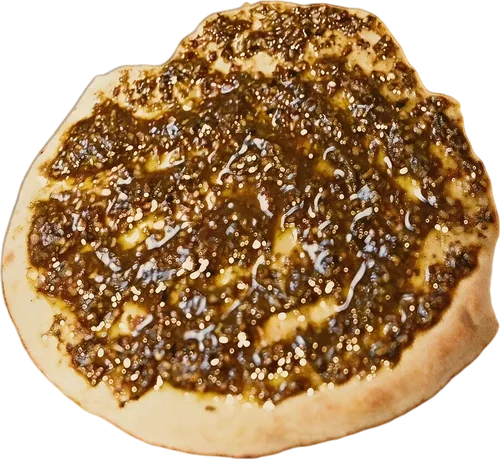
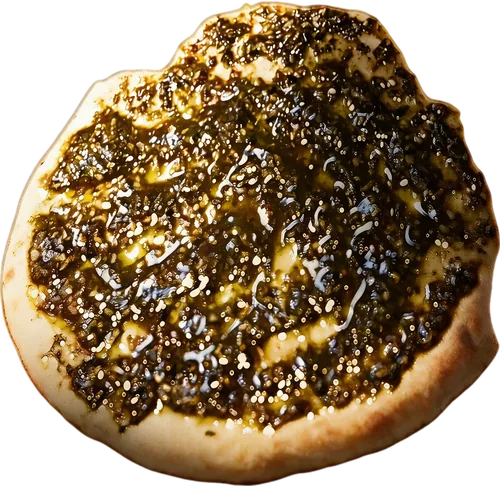
fix: schoenere Hintergrundprodukte + Handy-Bedienung
DIE DAMPFENDEN PRODUKTE
Karol: „die solltest du mit neuen higgsfield produkten ersetzen durch
schoenere halt. dampfen sollen sie trotzdem und die logik bzw die
produkte an sich sollen nicht geaendert werden nur das aussehen."

Betroffen sind die fuenf, die dampfen (tiefe < 0,62): fatayer, lahmacun,
zaatar, zaatar-2, stapel. Alle fuenf neu durch seedream_v5_pro mit
is_inpaint — das bearbeitet die Vorlage, statt etwas Neues zu erfinden.
Der Auftrag lautete diesmal auf SCHOENHEIT (warmes streifendes Licht,
Glanz von Oel, „die Aufnahme, die ein guter Foodfotograf macht, nicht
der Schnappschuss") mit „Das OBJEKT darf sich nicht aendern" als Riegel.

Gemessen, Vorher → Nachher:

              Schaerfe        Saettigung   Farbabstand  Umriss-IoU
  fatayer     1858 →  939     68 → 73 %       39,5        99,5 %
  lahmacun    4551 → 3192     67 → 74 %       47,9        99,7 %
  zaatar      3893 → 5399     65 → 69 %       43,3        99,5 %
  zaatar-2    4285 → 5367     64 → 74 %       34,6        99,7 %
  stapel      2269 → 2193     53 → 72 %       89,8        96,2 %

Vier eingebaut, `stapel` VERWORFEN. Bei 89,8 Farbabstand und 96,2 %
Umriss war der Stapel sichtbar anders aufgebaut — und genau das war
ausgeschlossen. Der alte bleibt drin.

Der Dampf haengt unveraendert an `g.dampft` und `g.tiefe`; an der Logik
ist nichts angefasst. In gebaecke.ts stehen nur neue Masse (900 px
lange Kante), damit die reservierte Hoehe wieder stimmt.

DIE HANDY-BEDIENUNG
[…]

diff --git a/src/stile/grundlage.css b/src/stile/grundlage.css
@@ -549,6 +549,48 @@ section {
   vertical-align: 0.08em;
 }
 
+/**
+ * ═══ Antippflaechen auf dem Handy ═══
+ *
+ * Karol am 08.09.: „Handy-Formatierung ist wichtig."
+ *
+ * Auf vier iPhone-Groessen (SE, 13 mini, 15, 15 Pro Max) nachgemessen: die
+ * Seite schiebt nirgends seitlich, aber elf Bedienelemente lagen unter der
+ * 44-Pixel-Grenze, die Apple fuer eine Fingerkuppe ansetzt:
+ *
+ *     kopf__marke      68 x 30
+ *     galerie__pfeil   42 x 42   (zweimal, zwei Pixel zu knapp)
+ *     Telefon, Festnetz, E-Mail im Laden      je 26 hoch
+ *     WhatsApp, Telefon, E-Mail, Impressum,
+ *     Datenschutz im Fuss                     je 27 hoch
+ *
+ * Sie sind alle gross genug ZU LESEN — nur nicht gross genug zu TREFFEN. Auf
+ * dem Schirm faellt das nicht auf, weil ein Mauszeiger einen Punkt trifft und
+ * ein Daumen eine Flaeche.
+ *
+ * `pointer: coarse` und nicht eine Fensterbreite: entscheidend ist das
+ * Eingabegeraet, nicht die Groesse des Bildschirms. Ein Tablet mit 1024 px
+ * wird mit dem Finger bedient, ein schmales Fenster am Rechner nicht.
+ *
+ * Die Flaeche waechst nach oben und unten um den Text herum; sichtbar aendert
+ * sich nur der Zeilenabstand in den beiden Kontaktbloecken, und der darf auf
+ * einem Handy ohnehin groesser sein.
+ */
+@media (pointer: coarse) {
+  .kopf__marke,
+  .laden__wort .datenzeile a,
+  .fuss__navi a {
+    display: inline-flex;
+    align-items: center;
+    min-height: 44px;
+  }
+
+  .galerie__pfeil {
+    min-width: 44px;
+    min-height: 44px;
+  }
+}
+
 /* ── Bewegung ─────────────────────────────────────────────────────────────── */
 
 /* Jede Bewegung hat einen stehenden Ersatz — nicht abgeschaltet, ERSETZT.

diff --git a/src/gebaecke.ts b/src/gebaecke.ts
@@ -301,7 +301,7 @@ export const GEBAECKE: Gebaeck[] = [
     liM: 58,
     grM: 52,
     breite: 900,
-    hoehe: 709,
+    hoehe: 803,
     /* Das echte fliegt am weitesten und am grössten — es ist das einzige, das
        zeigt, was der Gast bekommt. */
     y: [0.5, -0.34],
@@ -349,7 +349,7 @@ export const GEBAECKE: Gebaeck[] = [
     liM: 54,
     grM: 48,
     breite: 900,
-    hoehe: 796,
+    hoehe: 857,
     y: [0.62, -0.28],
     x: [-0.05, 0.1],
     dreh: [-45, 22],
@@ -372,7 +372,7 @@ export const GEBAECKE: Gebaeck[] = [
     liM: 76,
     grM: 38,
     breite: 900,
-    hoehe: 826,
+    hoehe: 875,
     y: [0.28, -0.4],
     x: [0.06, -0.04],
     dreh: [36, -25],
@@ -395,7 +395,7 @@ export const GEBAECKE: Gebaeck[] = [
     liM: 74,
     grM: 36,
     breite: 900,
-    hoehe: 850,
+    hoehe: 872,
     y: [0.44, -0.22],
     x: [-0.03, 0.07],
     dreh: [-22, 45],
@@ -520,7 +520,7 @@ export const GEBAECKE: Gebaeck[] = [
     liM: 40,
     grM: 30,
     breite: 900,
-    hoehe: 796,
+    hoehe: 857,
     y: [0.44, -0.29],
     x: [0.04, -0.05],
     dreh: [18, -14],
@@ -544,7 +544,7 @@ export const GEBAECKE: Gebaeck[] = [
     liM: 20,
     grM: 32,
     breite: 900,
-    hoehe: 826,
+    hoehe: 875,
     y: [0.44, -0.29],
     x: [-0.04, 0.05],
     dreh: [-18, 14],
@@ -568,7 +568,7 @@ export const GEBAECKE: Gebaeck[] = [
     liM: 68,
     grM: 28,
     breite: 900,
-    hoehe: 709,
+    hoehe: 803,
     y: [0.44, -0.29],
     x: [0.04, -0.05],
     dreh: [18, -14],

diff --git a/src/stile/bausteine.css b/src/stile/bausteine.css
@@ -413,6 +413,22 @@
   text-transform: uppercase;
 }
 .etikett--still::before { display: none; }
+
+/**
+ * ═══ Auf dem Handy einen halben Punkt groesser ═══
+ *
+ * Gemessen: 0,72 rem sind 11,52 px, und das ist auf einem Telefon die Grenze
+ * zum Kneifen. 0,75 rem sind glatte 12.
+ *
+ * Die Regel steht HIER und nicht in grundlage.css. Dort stand sie zuerst und
+ * hat nicht gegriffen: grundlage.css wird vor bausteine.css geladen, und bei
+ * gleicher Spezifitaet gewinnt die spaetere Datei. Eine Medienabfrage aendert
+ * an der Spezifitaet nichts. Dieselbe Falle wie beim doppelten
+ * `.schritt`-Regelsatz und bei der Schrittziffer.
+ */
+@media (max-width: 859px) {
+  .etikett--still { font-size: 0.75rem; }
+}
 .sektion--nacht .etikett--still { color: oklch(72% 0.02 72); }
 
 /* ── Sektionskopf ─────────────────────────────────────────────────────────── */

diff --git a/src/stile/sektionen.css b/src/stile/sektionen.css
@@ -4433,6 +4433,10 @@
   text-transform: uppercase;
   color: var(--tinte-leise);
 }
+/* Auf dem Handy glatte 12 px statt 11,52 — gemessen die Grenze zum Kneifen. */
+@media (max-width: 859px) {
+  .kartenblatt__ort { font-size: 0.75rem; }
+}
 
 .kartenblatt__liste { list-style: none; margin: 0; padding: 0; }
 
